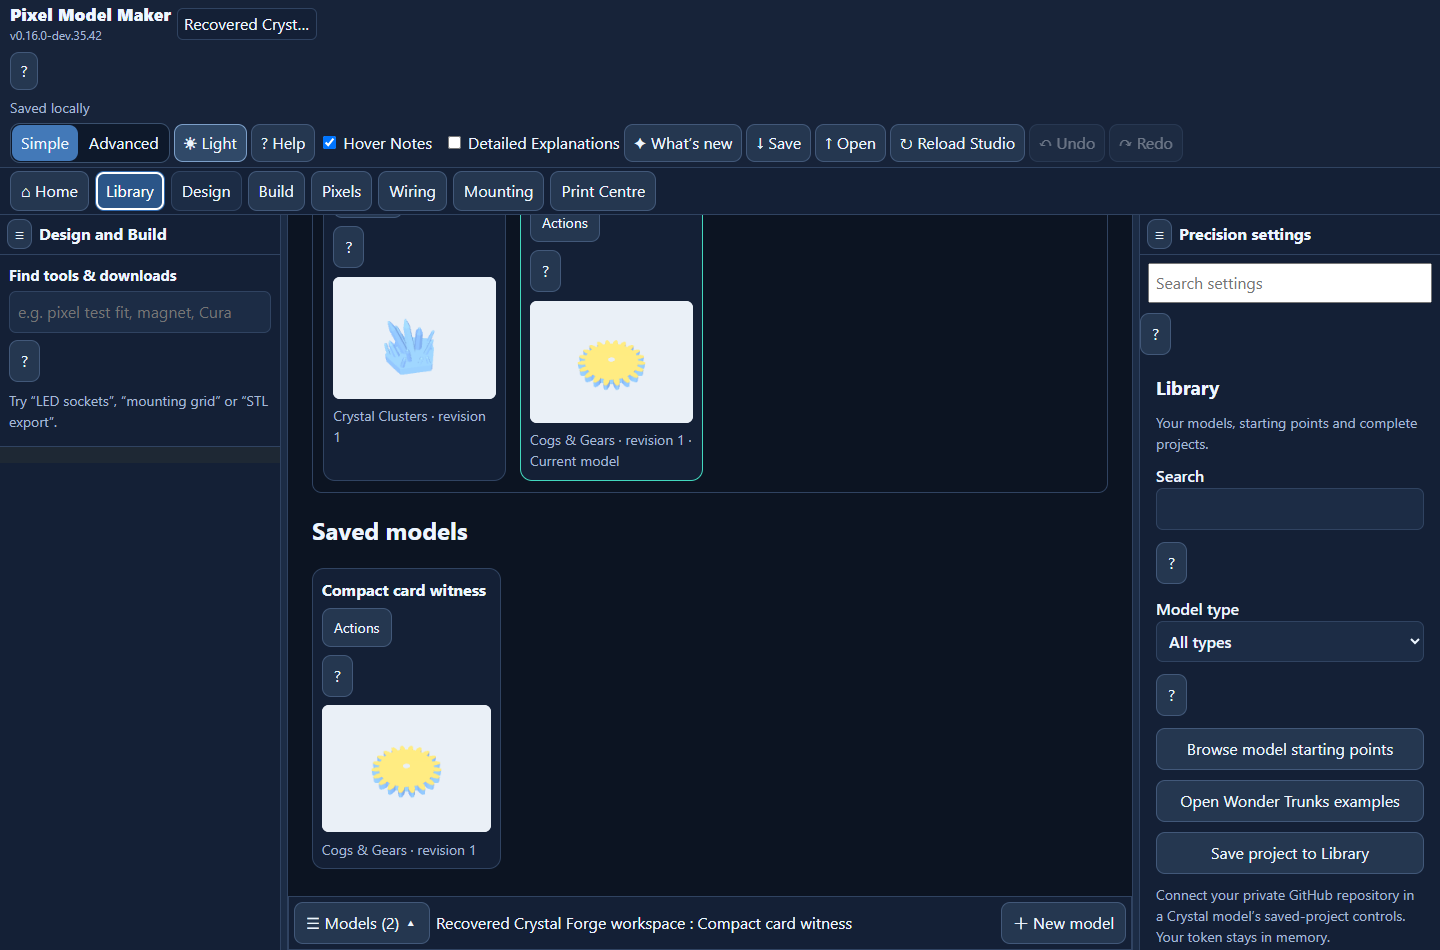
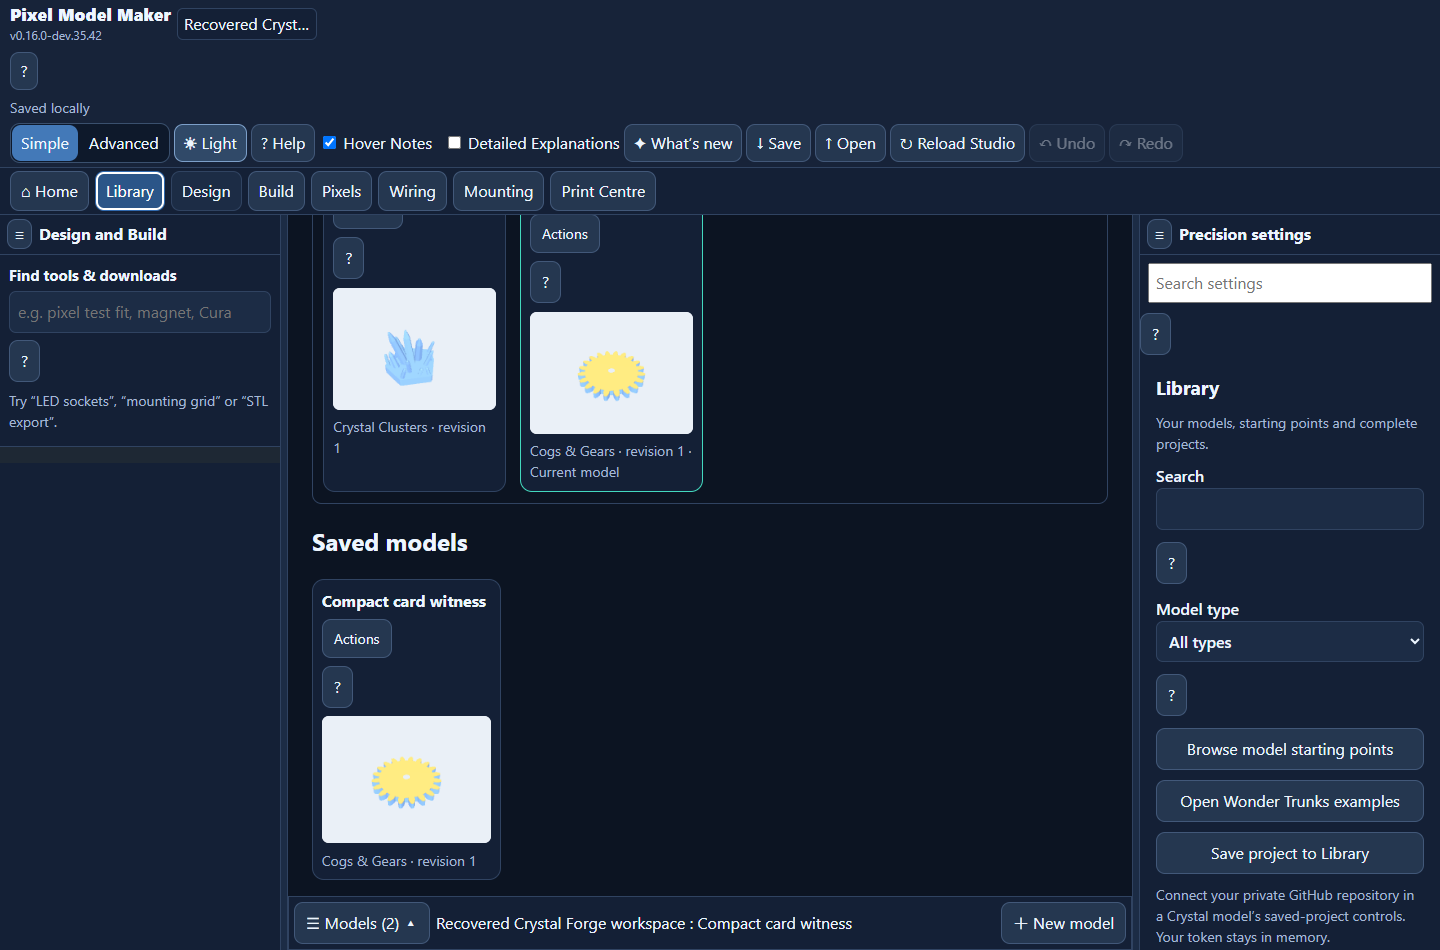
Keep Library actions clear of Help notes and the Models drawer

diff --git a/tooltips.js b/tooltips.js
@@ -547,7 +547,9 @@ export function installTooltips(doc=document){
   // In a modal the focused field is often immediately above Create/Save.
   // Prefer an outside edge or the space above the field so help never
   // covers the next action directly beneath that field.
-  let y=(workspace||modal)&&above>=9?above:rect.bottom+8;
+  const libraryCaption=target.closest('.sms-library-caption');
+  let y=libraryCaption?libraryCaption.getBoundingClientRect().top-box.height-8:
+   (workspace||modal)&&above>=9?above:rect.bottom+8;
   const panel=modal||target.closest('.left,.right,.sms-controls');
   if(panel){
    const bounds=panel.getBoundingClientRect();

diff --git a/sensory-studio.js b/sensory-studio.js
@@ -84,6 +84,10 @@ export function installSensoryStudio({THREE,scene,camera,orbit,renderer,bootstra
  if(modelDrawer){
   modelDrawer.root.id='smsModelsDrawer';
   modelDrawer.grid.id='smsTabs';
+  const drawerResize=new ResizeObserver(()=>{
+   overlay.style.setProperty('--library-drawer-height',modelDrawer.root.getBoundingClientRect().height+'px');
+  });
+  drawerResize.observe(modelDrawer.root);
   const stylesheet=document.createElement('link');stylesheet.rel='stylesheet';stylesheet.href='./src/ui/model-drawer.css';document.head.append(stylesheet);
  }
  const inspection=shell?createLightInspector({THREE,scene,camera,

diff --git a/src/ui/library-card.css b/src/ui/library-card.css
@@ -22,3 +22,5 @@
 .sms-library-card :is(button,summary):focus-visible{outline:2px solid var(--teal);outline-offset:2px}
 
 .sms-library-card[aria-current=true]{border-color:var(--teal)}
+
+body[data-studio-view=library] .sms-centre>#smsOverlay{bottom:var(--library-drawer-height,4rem);padding-block-end:1rem}
